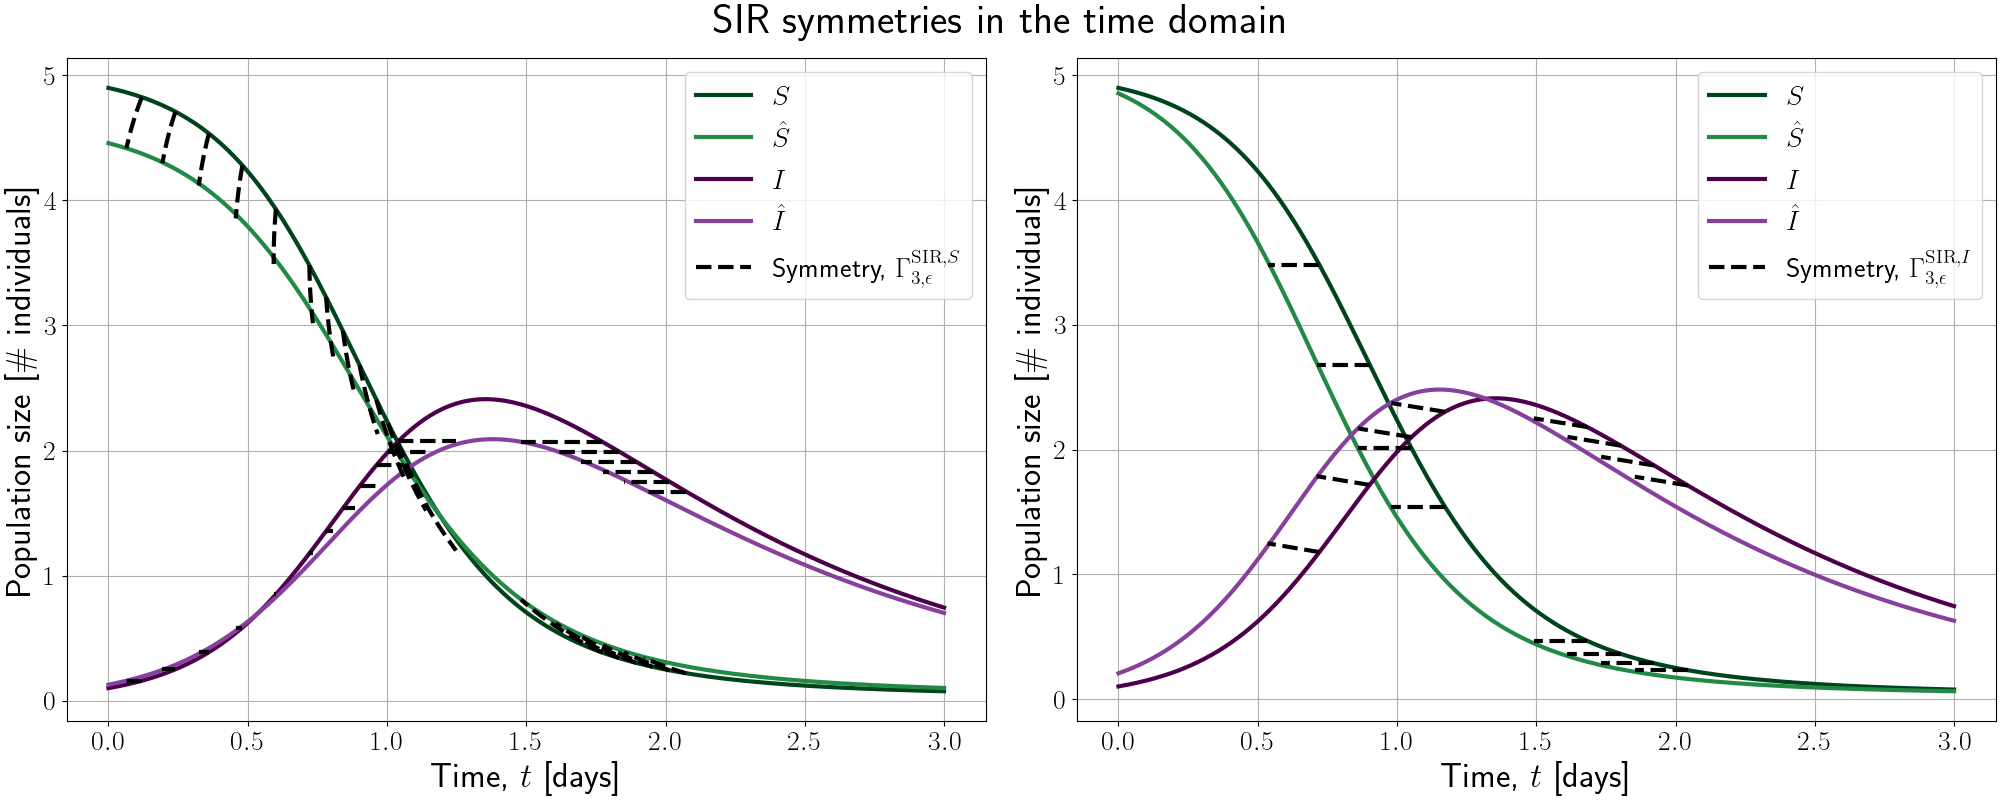
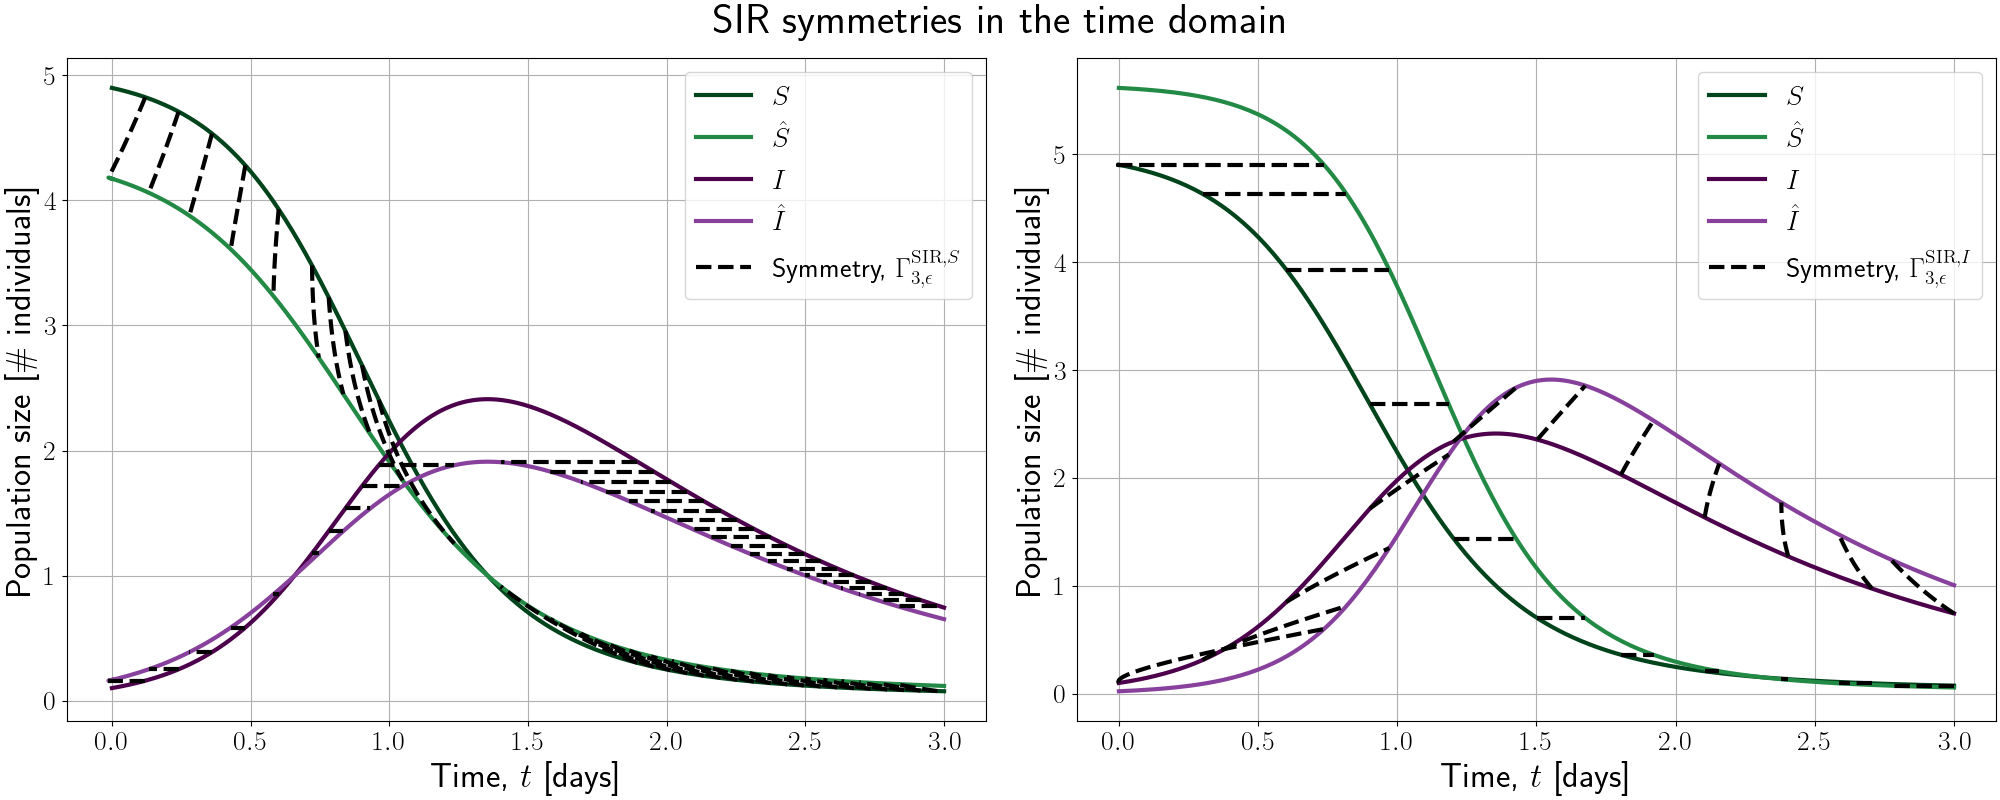
Sort out SIR model as well

diff --git a/Code/SIR.py b/Code/SIR.py
@@ -29,7 +29,7 @@ plt.rcParams['text.usetex'] = True
 # Plotting the SIR model
 #=================================================================================
 #=================================================================================
-# DEFINE PARAMETER VALUES
+# # DEFINE PARAMETER VALUES
 r = 1 # In units per days
 p = 1 # In units days (defined as p=a/r)
 a = r*p # In units per individuals per days
@@ -56,7 +56,6 @@ I_trans_S_dir = asarray([(C-epsilon)-S_temp +p*log(S_temp) for S_temp in S])
 epsilon_vec = linspace(0,epsilon,num=200,endpoint=True)
 # Transformations S
 S_sym = []
-#S_indices = [5, 7, 10, 13, 16, 19, 22, 25, 28,30,235,260,290, 310, 340, 373, 420, 455]
 S_indices = [13, 16, 19, 22, 25, 28,30,235,260,290, 310, 340, 373, 420, 455]
 for S_index in list(S_indices):
     trans_vec = [S_transf(S[S_index],epsilon_temp,a,r) for epsilon_temp in list(epsilon_vec)]
@@ -118,8 +117,6 @@ ax_1[1].set_ylim([0, max(I_trans_I_dir)+delta])
 f1.suptitle('Phase plane symmetries of the SIR- model',
             fontsize=30, weight='bold')
 f1.savefig('../Figures/phase_plane_symmetries_SIR.png')
-#plt.show()
-
 
 #=================================================================================
 #=================================================================================
@@ -163,13 +160,10 @@ for index,I_index in enumerate(list(I_indices)):
 # S-directional symmetry of the SIR model
 # ---------------------------------------------------------------------------------
 # ---------------------------------------------------------------------------------
-# Define a large epsilon
-epsilon = 0.32
 # Plot the action of the symmetry
 epsilon_vec_dense = linspace(0,epsilon,num=20000,endpoint=True)
 epsilon_vec = linspace(0,epsilon,num=100,endpoint=True)
-# Calculate the initial condition (tryouts)
-S0_time = 1
+# Time vector
 t = linspace(0, 3, 500)              # time
 # initials conditions: Number of infectives I0 and number of susceptibles S0.
 X0 = array([S0, I0])
@@ -184,7 +178,7 @@ H_SIR = I[magical_index] + S[magical_index] - p*log(S[magical_index])
 # Take a point
 X0 = array([t[magical_index], S[magical_index], I[magical_index]])
 # Try to solve the ODE at hand
-Gamma_epsilon, infodict = integrate.odeint(dX_deps_SIR_S, X0, epsilon_vec_dense, args = (H_SIR,r,p,S0_time),full_output=True)
+Gamma_epsilon, infodict = integrate.odeint(dX_deps_SIR_S, X0, epsilon_vec_dense, args = (p,),full_output=True)
 # Split the solution into its component parts
 Gamma_S_t, Gamma_S_S, Gamma_S_I = Gamma_epsilon.T
 # Define a new time vector
@@ -209,7 +203,7 @@ S_2_S = concatenate((flip(S_2_start,0), S_2), axis=0)
 I_2_S = concatenate((flip(I_2_start,0), I_2), axis=0)
 t_2_S = concatenate((flip(t_2_start,0), t_2), axis=0)
 # Plot the symmetry again for some other point on the solution curves
-magical_indices = [20, 40, 60, 80, 100, 120, 130, 140, 150, 160, 167, 173, 295, 305, 315, 325, 335, 345]
+magical_indices = [20, 40, 60, 80, 100, 120, 130, 140, 150, 160, 315, 325, 335, 345, 355, 365, 375, 385, 395, 405, 415, 425, 435, 445, 455, 465, 475, 485, 495]
 # Allocate memory for our lovely symmetry
 Gamma_S_t_vec = []
 Gamma_S_S_vec = []
@@ -219,7 +213,7 @@ for index,new_magical_index in enumerate(magical_indices):
     # Take a point
     X0 = array([t[new_magical_index], S[new_magical_index], I[new_magical_index]])  
     # Try to solve the ODE at hand
-    Gamma_epsilon_temp, infodict = integrate.odeint(dX_deps_SIR_S, X0, epsilon_vec_dense, args = (H_SIR,r,p,S0_time),full_output=True)    
+    Gamma_epsilon_temp, infodict = integrate.odeint(dX_deps_SIR_S, X0, epsilon_vec_dense, args = (p,),full_output=True)    
     # Split the solution into its component parts
     Gamma_S_t_temp, Gamma_S_S_temp, Gamma_S_I_temp = Gamma_epsilon_temp.T
     # Make these vector more sparse than they are currently by means of interpolation
@@ -235,26 +229,23 @@ for index,new_magical_index in enumerate(magical_indices):
 # I-directional symmetry of the SIR model
 # ---------------------------------------------------------------------------------
 # ---------------------------------------------------------------------------------
-# Define a large epsilon
-epsilon = 0.07
-#Plot the action of the symmetry
-epsilon_vec = linspace(0,epsilon,num=200,endpoint=True)
-epsilon_vec_dense = linspace(0,epsilon,num=20000,endpoint=True)
 # Magical index
-magical_index = 170
-branch_index_temp = -1
-# Make a test value for the lower limit in the integral
-I0_test = 0.1
+magical_index = 100
 # Take a point
 X0 = array([t[magical_index], S[magical_index], I[magical_index]])
+# Choose branch depending on the value of S
+if I[magical_index]>1:
+    branch_index = -1
+else:
+    branch_index = 0
 # Try to solve the ODE at hand
-Gamma_epsilon, infodict = integrate.odeint(dX_deps_SIR_I, X0, epsilon_vec_dense, args = (H_SIR,r,p,I0_test,branch_index_temp),full_output=True)
+Gamma_epsilon, infodict = integrate.odeint(dX_deps_SIR_I, X0, epsilon_vec_dense, args = (p,branch_index),full_output=True)
 # Split the solution into its component parts
 Gamma_I_t, Gamma_I_S, Gamma_I_I = Gamma_epsilon.T
 # Define a new time vector
-t_2 = linspace(Gamma_I_t[-1], t[-1], 250)
+t_2 = linspace(Gamma_I_t[-1], t[-1], 50000)
 # We need to integrate backwards in time as well to start at 0
-t_2_start = linspace(Gamma_I_t[-1], 0, 250)
+t_2_start = linspace(Gamma_I_t[-1], 0, 50000)
 # Define new initial conditions for the transformed solutions
 X02 = array([Gamma_I_t[-1], Gamma_I_S[-1], Gamma_I_I[-1]])  
 X0_2 = array([Gamma_I_S[-1], Gamma_I_I[-1]])  
@@ -272,23 +263,50 @@ S_2_start, I_2_start = X2_start.T
 S_2_I = concatenate((flip(S_2_start,0), S_2), axis=0)
 I_2_I = concatenate((flip(I_2_start,0), I_2), axis=0)
 t_2_I = concatenate((flip(t_2_start,0), t_2), axis=0)
+
+
 # Plot the symmetry again for some other point on the solution curves
-#magical_indices_I = [20,25,30,35,65, 75, 85, 90]
-#branches_I = [0,0,0,0,0, 0, 0, 0]
-magical_indices_I = [120, 150,175,195, 280, 300, 320, 340]
-branches_I = [-1, -1,-1, -1,0, 0, 0, 0]
+magical_indices_I = [0, 50, 100, 150, 200, 250, 300, 350, 400, 450, -1]
+delta_t_forward_vec = [1, 0.75, 0.5, 0.5, 0.5, 0.75, 0.75, 2, 0, 0, 0]
+delta_t_backward_vec = [0, 0, 0, 0, 0, 0, 0, 0.5, 2, 0.5, 0.5]
 # Allocate memory for our lovely symmetry
 Gamma_I_t_vec = []
 Gamma_I_S_vec = []
 Gamma_I_I_vec = []
-# Loop over the indices and plot the symmetry transformation
-for index,new_magical_index in enumerate(magical_indices_I):
+# # Loop over the indices and plot the symmetry transformation
+for useful_index,new_magical_index in enumerate(magical_indices_I):
+    # Extract the delta_t backwards and forwards
+    delta_t_forward = delta_t_forward_vec[useful_index]
+    delta_t_backward = delta_t_backward_vec[useful_index]
     # Take a point
     X0 = array([t[new_magical_index], S[new_magical_index], I[new_magical_index]])  
+    # Choose branch depending on the value of S
+    if S[magical_index]>1:
+        branch_index = -1
+    else:
+        branch_index = 0
     # Try to solve the ODE at hand
-    Gamma_epsilon_temp, infodict = integrate.odeint(dX_deps_SIR_I, X0, epsilon_vec_dense, args = (H_SIR,r,p,I0_test,branches_I[index]),full_output=True)    
+    Gamma_epsilon, infodict = integrate.odeint(dX_deps_SIR_I, X0, epsilon_vec_dense, args = (p,branch_index),full_output=True)    
     # Split the solution into its component parts
-    Gamma_I_t_temp, Gamma_I_S_temp, Gamma_I_I_temp = Gamma_epsilon_temp.T    
+    Gamma_I_t_temp, Gamma_I_S_temp, Gamma_I_I_temp = Gamma_epsilon.T
+    # Find the desired S value
+    S_val = S[new_magical_index]
+    # Tak a lower time value
+    t_lower = where(t_2_I==find_nearest(t_2_I, value=t[new_magical_index]-delta_t_backward))[0][0]
+    t_upper = where(t_2_I==find_nearest(t_2_I, value=t[new_magical_index]+delta_t_forward))[0][0]
+    t_temp = t_2_I[t_lower:t_upper]
+    S_temp = S_2_I[t_lower:t_upper]    
+    # Find the nearest S_val
+    nearest_S_val = find_nearest(S_temp, value=S_val)
+    special_index = where(S_temp==nearest_S_val)[0][0]    
+    if special_index != len(S_temp)-1:
+        t_desired = interp(array([S_val]), array([S_temp[special_index-1], S_temp[special_index], S_temp[special_index+1]]), array([t_temp[special_index-1], t_temp[special_index], t_temp[special_index+1]])) 
+    else:
+        t_desired = interp(array([S_val]), array([S_temp[special_index-1], S_temp[special_index]]), array([t_temp[special_index-1], t_temp[special_index]]))
+    # Calculate a time constant
+    time_constant = ((Gamma_I_t_temp[-1] - t_desired) / (epsilon))
+    # Update Gamma_u_temp
+    Gamma_I_t_temp = reshape(array([val - time_constant*epsilon_vec_dense[index] for index,val in enumerate(Gamma_I_t_temp)]),Gamma_I_t_temp.size)    
     # Make these vector more sparse than they are currently by means of interpolation
     Gamma_I_t_temp = interp(epsilon_vec, epsilon_vec_dense, Gamma_I_t_temp)
     Gamma_I_S_temp = interp(epsilon_vec, epsilon_vec_dense, Gamma_I_S_temp)
@@ -297,6 +315,12 @@ for index,new_magical_index in enumerate(magical_indices_I):
     Gamma_I_t_vec.append(Gamma_I_t_temp)    
     Gamma_I_S_vec.append(Gamma_I_S_temp)    
     Gamma_I_I_vec.append(Gamma_I_I_temp)
+
+# Concatenate to get the full solution curves and the full time
+t_2_I_sparse = linspace(t_2_I[0],t_2_I[-1],200)
+S_2_I = interp(t_2_I_sparse, t_2_I, S_2_I)
+I_2_I = interp(t_2_I_sparse, t_2_I, I_2_I)
+t_2_I = t_2_I_sparse
 #---------------------------------------------------------------------------------------------------
 #---------------------------------------------------------------------------------------------------
 # Plot of symmetries for the SIR model in the time domain
@@ -366,24 +390,6 @@ ax_2[1].set_ylabel(ylabel='Population size [\\# individuals]',fontsize=25)
 # Title and saving the figure
 f2.suptitle('SIR symmetries in the time domain',fontsize=30,weight='bold');
 f2.savefig('../Figures/time_domain_symmetries_SIR.png')
-
-
-I_max = H_SIR - (p-p*log(p))
-I_temp = linspace(0.01,I_max)
-S_temp = array([-p*lambertw(-exp(((I_val-H_SIR)/(p)))/p,-1) for I_val in I_temp])
-S_temp_2 = array([-p*lambertw(-exp(((I_val-H_SIR)/(p)))/p,0) for I_val in I_temp])
-
-f3 = plt.figure(figsize =(5, 4)) 
-ax_3 = f3.add_axes([0.1, 0.1, 0.8, 0.8])
-ax_3.plot(S_temp, I_temp,label="Branch -1") 
-ax_3.plot(S_temp_2, I_temp,label="Branch 0")
-ax_3.grid()
-ax_3.legend(loc='best',prop={"size":20})
-ax_3.set_xlabel(xlabel='Susceptibles, $S(t)$',fontsize=25)
-ax_3.set_ylabel(ylabel='Infected, $I(t)$',fontsize=25)
-f3.suptitle('matplotlib.figure.Figure() class Example\n\n',  
-             fontweight ="bold") 
-
 plt.show()
 
 #=================================================================================
@@ -400,10 +406,8 @@ for index in range(len(Gamma_S_t_vec)):
         plot_LaTeX_2D(Gamma_S_t_vec[index],Gamma_S_S_vec[index],"../Figures/LaTeX_figures/SIR_symmetries/Input/SIR_S_time.tex","color=black,->,>=latex,densely dashed,line width=1.0pt","$\\Gamma^{\\mathrm{SIR},S}_{3,\\epsilon}$")
         plot_LaTeX_2D(Gamma_S_t_vec[index],Gamma_S_I_vec[index],"../Figures/LaTeX_figures/SIR_symmetries/Input/SIR_S_time.tex","color=black,->,>=latex,densely dashed,line width=1.0pt",[])        
     else:
-        if index < 6 or index >12:
-            plot_LaTeX_2D(Gamma_S_t_vec[index],Gamma_S_S_vec[index],"../Figures/LaTeX_figures/SIR_symmetries/Input/SIR_S_time.tex","color=black,->,>=latex,densely dashed,line width=1.0pt",[])
-        if index>7:
-            plot_LaTeX_2D(Gamma_S_t_vec[index],Gamma_S_I_vec[index],"../Figures/LaTeX_figures/SIR_symmetries/Input/SIR_S_time.tex","color=black,->,>=latex,densely dashed,line width=1.0pt",[])                
+        plot_LaTeX_2D(Gamma_S_t_vec[index],Gamma_S_S_vec[index],"../Figures/LaTeX_figures/SIR_symmetries/Input/SIR_S_time.tex","color=black,->,>=latex,densely dashed,line width=1.0pt",[])
+        plot_LaTeX_2D(Gamma_S_t_vec[index],Gamma_S_I_vec[index],"../Figures/LaTeX_figures/SIR_symmetries/Input/SIR_S_time.tex","color=black,->,>=latex,densely dashed,line width=1.0pt",[])                
 # Plot the solutions as well
 plot_LaTeX_2D(t,S,"../Figures/LaTeX_figures/SIR_symmetries/Input/SIR_S_time.tex","color=r_1,line width=1.5pt,","$S(t)$")
 plot_LaTeX_2D(t_2_S,S_2_S,"../Figures/LaTeX_figures/SIR_symmetries/Input/SIR_S_time.tex","color=r_2,line width=1.5pt,","$\\hat{S}(t)$")

diff --git a/Code/symmetry_toolbox.py b/Code/symmetry_toolbox.py
@@ -211,46 +211,52 @@ def dX_dt_SIR(X, t=0,*parameters):
                    r*X[0]*X[1]-a*X[1]])
 # Function 19: The integrand for the S-directional symmetry of the
 # SIR model
-def integrand_S(s,H_SIR,r,p):
+def integrand_S(s,H_SIR,p):
     # Now we can define the denominator
-    denom = r*((p-s)**2)*(H_SIR - s + p*log(s))
+    denom = ((p-s)**2)*(H_SIR - s + p*log(s))
     # Now, we can return the integral
     return -1/denom
 # Function 20: ODE for the S-directional symmetry of the SIR model
 def dX_deps_SIR_S(X, t=0,*parameters):
     # Extract the parameters
-    H_SIR = parameters[0]
-    r = parameters[1]
-    p = parameters[2]
-    S0 = parameters[3]
+    p = parameters[0]
+    # Calculate the internal energy
+    H_SIR = X[2] + X[1] - p*log(X[1])
+    # Define the lower boundary
+    S0 = p
     # Solve the integral for the time tangent
-    xi_S = quad(integrand_S, S0, X[1], args=(H_SIR,r,p))[0]
+    xi_S = quad(integrand_S, S0, X[1], args=(H_SIR,p))[0]
     # Return the dynamics of the linear system
     return array([xi_S,
                   X[1]/(p-X[1]),
                   0])
 # Function 21: The integrand for the I-directional symmetry of the
 # SIR model
-def integrand_I(s,H_SIR,r,p,branch_number):
+def integrand_I(s,H_SIR,p,branch_number):
     # Define the thingy we're taking the lambert function of
-    I_I = -(exp((s+H_SIR)/p)/p)
+    I_I = -(exp((s-H_SIR)/p)/p)
     #I_I = -(exp((s-H_SIR)/p)/p)
     #Define our lovely factor
     factor_I = 1+lambertw(I_I,branch_number).real
     # Now we can define the denominator
-    denom = r*p*(s**2)*factor_I
+    denom = p*(s**2)*factor_I
     # Now, we can return the integral
     return -1/denom
 # Function 22: ODE for the I-directional symmetry of the SIR model
 def dX_deps_SIR_I(X, t=0,*parameters):
     # Extract the parameters
-    H_SIR = parameters[0]
-    r = parameters[1]
-    p = parameters[2]
-    I0 = parameters[3]
-    branch_number = parameters[4]
+    p = parameters[0]
+    branch_number = parameters[1]
+    # Calculate the internal energy
+    H_SIR = X[2] + X[1] - p*log(X[1])
+    # # Define the min value for the integration
+    # if X[2]<1:
+    #     I0 = -p*lambertw(-(1/p)*exp(-H_SIR/p),0).real
+    # else:
+    #     I0 = -p*lambertw(-(1/p)*exp(-H_SIR/p),-1).real
+    I0 = H_SIR - (p - p*log(p))
     # Solve the integral for the time tangent
-    xi_I = quad(integrand_I, I0, X[2], args=(H_SIR,r,p,branch_number),epsrel = 1e-012)[0]
+    xi_I = quad(integrand_I, I0, X[2], args=(H_SIR,p,branch_number),epsrel = 1e-012)[0]
     # Return the dynamics of the linear system
     return array([xi_I,
                   0,
